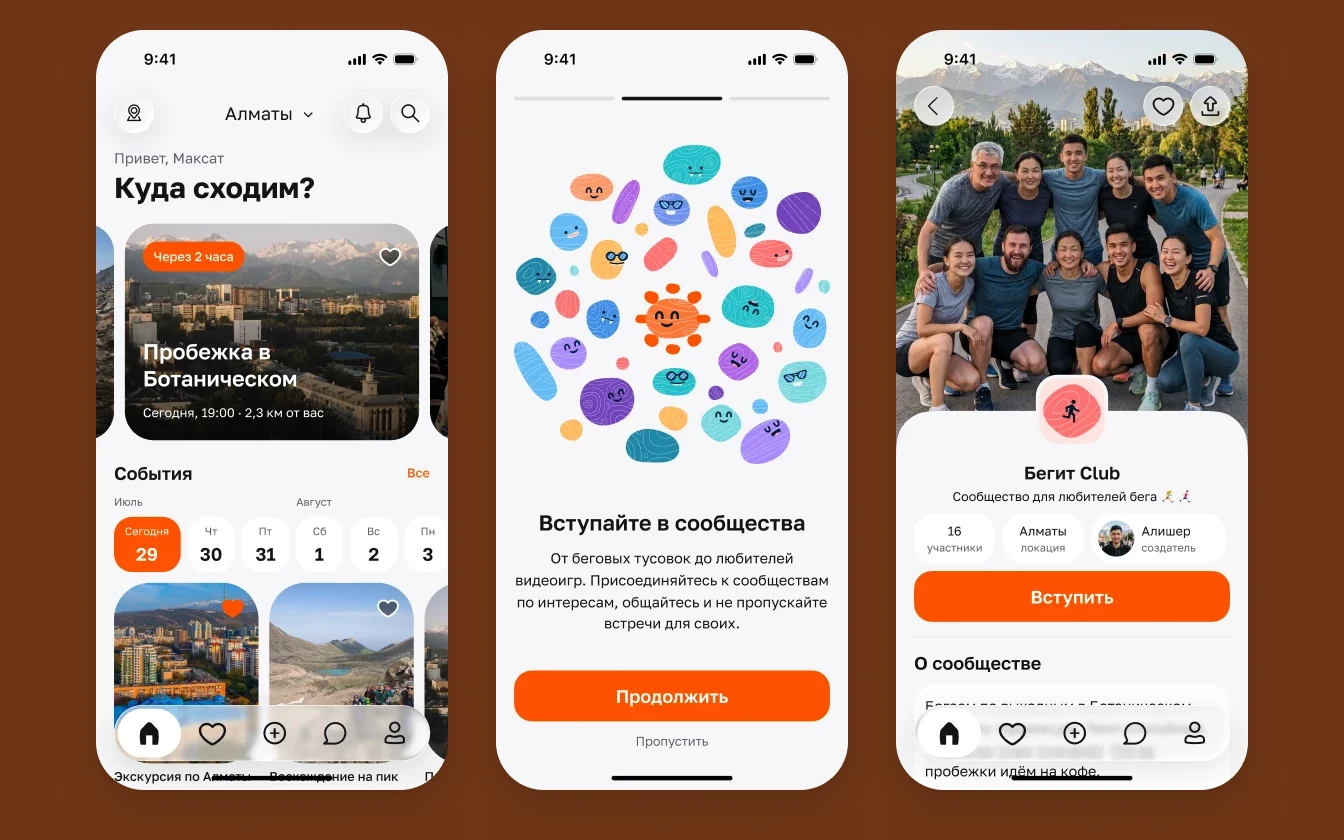
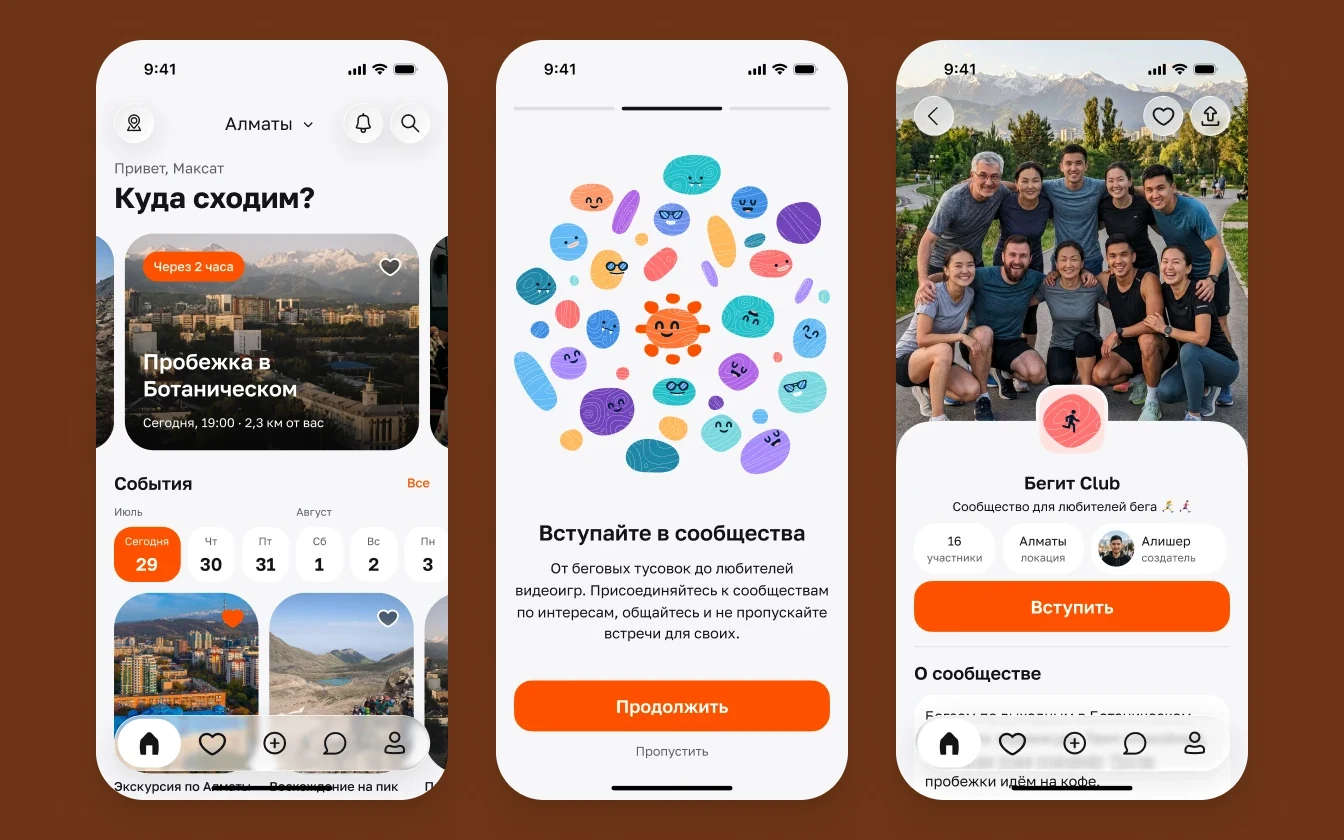
Реплики без спама, подсказка сразу после приветствия, плавный скролл, волны медленнее
- «...ещё один!» и «...наелась, ква?» — не чаще раза в 45 с
- Приветствие держится 2 с, следом «лови стрекоз!» или «лови светлячков!»
- Контакты в меню рядом со «Скачать CV»
- Переходы по разделам меню — плавным скроллом
- Волны на карточке в 1,4 раза медленнее, экраны с равными отступами сверху и снизу (и на обложке кейса)

Claude-Session: https://claude.ai/code/session_01BRuFdSBdcir3E3s2SeieHe

diff --git a/assets/js/pond.js b/assets/js/pond.js
@@ -330,10 +330,23 @@
     }, rnd(15000, 20000));
   }
   // Сразу после поимки: «...ещё один!» — ловит посетитель, «...наелась, ква?» — ловит лягушка
-  function sayNow(key) { if (PHRASES[key] && !speaking) say(key, schedule); }
+  // Реплики после поимки — не на каждую: первая сразу, дальше не чаще раза в 45 с, иначе это спам
+  const lastSaid = {};
+  function sayNow(key) {
+    const now = Date.now();
+    if (!PHRASES[key] || speaking || now - (lastSaid[key] || -Infinity) < 45000) return;
+    lastSaid[key] = now;
+    say(key, schedule);
+  }
 
+  // Приветствие висит недолго, следом сразу подсказка «лови стрекоз!» или «лови светлячков!»,
+  // чтобы её заметили до того, как пролистают шапку
+  function hint() {
+    const key = isNight() ? 'fireflies' : 'dragonflies';
+    say(PHRASES[key] ? key : pool()[0], schedule);
+  }
   speech.classList.add('is-hidden');
-  setTimeout(() => say('greet', schedule), 700);
+  setTimeout(() => say('greet', () => setTimeout(() => { if (current === 'greet' && !speaking) hint(); }, 2000)), 700);
   // Смена дня и ночи: если висит реплика другого времени суток — сразу заменить подходящей
   document.addEventListener('themechange', () => {
     const w = current && PHRASES[current].when;

diff --git a/assets/js/waves.js b/assets/js/waves.js
@@ -6,10 +6,11 @@
   const COLS = Math.ceil(W / CELL), ROWS = Math.ceil(H / CELL);
   const CX = W / 2, CY = H / 2;
   const MAXR = Math.hypot(CX, CY) + CELL * 2;
-  const SPEED = 230;  // px/с
-  const THICK = 0.55; // через сколько секунд у круга появляется «дырка», с
-  const EVERY = 1.15; // новая волна каждые, с
-  const START = 7.1;  // кадр, на котором карточка стоит в покое
+  // Медленнее прежнего в 1,4 раза (просьба Максата 26.11); ширина колец, шаг и кадр покоя те же
+  const SPEED = 165;  // px/с (было 230)
+  const THICK = 0.77; // через сколько секунд у круга появляется «дырка», с
+  const EVERY = 1.6;  // новая волна каждые, с
+  const START = 9.9;  // кадр, на котором карточка стоит в покое
   const EASE = 0.35;  // разгон и торможение, с
   const reduce = window.matchMedia('(prefers-reduced-motion: reduce)').matches;
 

diff --git a/assets/css/site.css b/assets/css/site.css
@@ -40,6 +40,8 @@ html[data-theme="dark"] {
 html[data-theme="dark"] .only-light, html:not([data-theme="dark"]) .only-dark { display: none !important; }
 
 *, *::before, *::after { box-sizing: border-box; }
+html { scroll-behavior: smooth; }
+@media (prefers-reduced-motion: reduce) { html { scroll-behavior: auto; } }
 html { -webkit-text-size-adjust: 100%; }
 body {
   margin: 0;
@@ -233,7 +235,7 @@ html[data-theme="dark"] .pond__scene .water { opacity: .6; }
 .waves { background: var(--wave-base, var(--spots)); }
 .waves__fx { position: absolute; inset: 0; width: 100%; height: 100%; image-rendering: pixelated; }
 .waves__phones { position: absolute; inset: 0; }
-.phone { position: absolute; top: calc(5 / 420 * 100%); width: calc(216 / 672 * 100%); height: auto; }
+.phone { position: absolute; top: calc(10 / 420 * 100%); width: calc(216 / 672 * 100%); height: auto; }
 .phone:nth-child(1) { left: calc(28 / 672 * 100%); }
 .phone:nth-child(2) { left: calc(228 / 672 * 100%); }
 .phone:nth-child(3) { left: calc(428 / 672 * 100%); }

diff --git a/assets/js/site.js b/assets/js/site.js
@@ -62,7 +62,7 @@
       items.forEach((i) => i.addEventListener('click', (e) => {
         if (i.dataset.section === 'top') { e.preventDefault(); window.scrollTo({ top: 0, behavior: reduce ? 'auto' : 'smooth' }); history.replaceState(null, '', './'); }
         setActive(i);
-        lock = Date.now() + 900; // пока страница доезжает, не перескакивать по пути
+        lock = Date.now() + 1500; // пока страница плавно доезжает, квадрат не перескакивает по пути
       }));
       let lock = 0;
       const sections = ['cases', 'experience'].map((id) => document.getElementById(id)).filter(Boolean);
@@ -75,6 +75,7 @@
         setActive(byId(id));
       }
       window.addEventListener('scroll', () => window.requestAnimationFrame(spy), { passive: true });
+      window.addEventListener('scrollend', () => { lock = 0; });
       if (location.hash) setTimeout(spy, 50);
     }
   }

diff --git a/spots/index.html b/spots/index.html
@@ -42,6 +42,8 @@
             </ul>
           </div>
           <a class="nav-item" href="../#experience" data-section="experience">Опыт</a>
+        </div>
+        <div class="nav-group">
           <div class="nav-fold is-closed">
             <button class="nav-item nav-row nav-toggle--row" type="button" aria-expanded="false" aria-controls="nav-contacts">
               <span>Контакты</span><svg class="chev" viewBox="0 0 16 16" aria-hidden="true" fill="currentColor"><path d="M5 9H3v2h2zM7 7H5v2h2zM9 5H7v2h2zM11 7H9v2h2zM13 9h-2v2h2z"/></svg>
@@ -52,8 +54,6 @@
               <li><a class="nav-item nav-item--sub" href="https://www.linkedin.com/in/maxat-khaimuldin/" target="_blank" rel="noopener">LinkedIn</a></li>
             </ul>
           </div>
-        </div>
-        <div class="nav-group">
           <a class="nav-item" href="../cv/Maxat-Khaimuldin-CV.pdf" target="_blank" rel="noopener">Скачать CV</a>
         </div>
       </nav>

diff --git a/index.html b/index.html
@@ -43,6 +43,8 @@
             </ul>
           </div>
           <a class="nav-item" href="#experience" data-section="experience">Опыт</a>
+        </div>
+        <div class="nav-group">
           <div class="nav-fold is-closed">
             <button class="nav-item nav-row nav-toggle--row" type="button" aria-expanded="false" aria-controls="nav-contacts">
               <span>Контакты</span><svg class="chev" viewBox="0 0 16 16" aria-hidden="true" fill="currentColor"><path d="M5 9H3v2h2zM7 7H5v2h2zM9 5H7v2h2zM11 7H9v2h2zM13 9h-2v2h2z"/></svg>
@@ -53,8 +55,6 @@
               <li><a class="nav-item nav-item--sub" href="https://www.linkedin.com/in/maxat-khaimuldin/" target="_blank" rel="noopener">LinkedIn</a></li>
             </ul>
           </div>
-        </div>
-        <div class="nav-group">
           <a class="nav-item" href="cv/Maxat-Khaimuldin-CV.pdf" target="_blank" rel="noopener">Скачать CV</a>
         </div>
       </nav>
